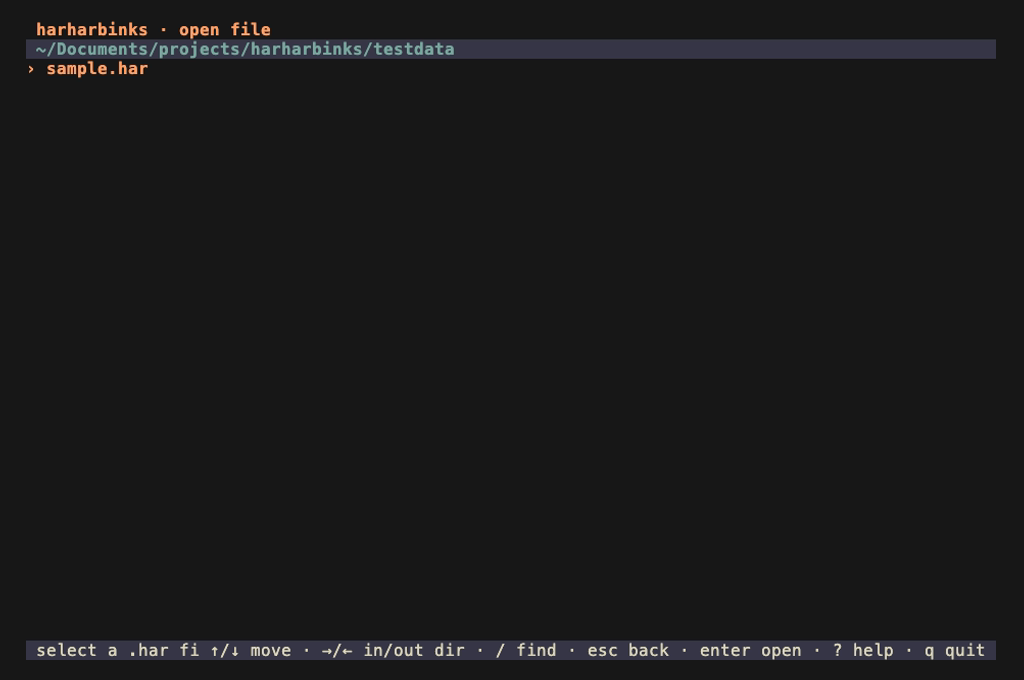
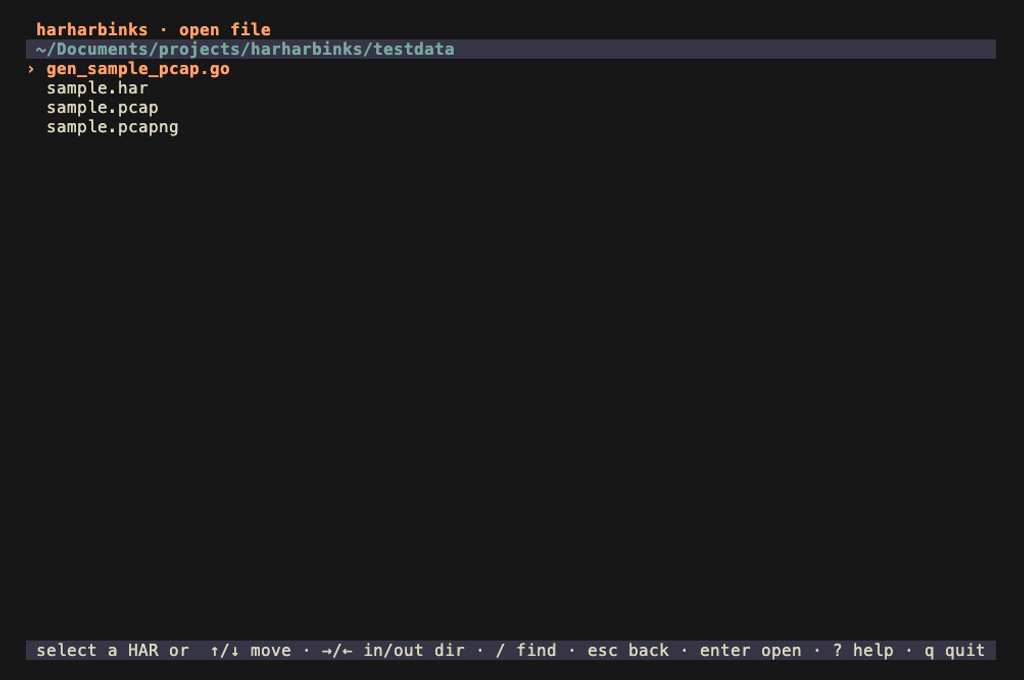
Document the PCAP viewer in the README and screenshots
The PCAP track (PP1-PP6) has shipped, so present harharbinks as the
offline HAR and PCAP inspector it now is, rather than a HAR-only viewer
with PCAP on the roadmap.

- README: reframe the intro and hero, split Features into HAR viewer,
  PCAP viewer, Shared, and Headless CLI groups, sync the usage block
with
  `hhb --help`, add HAR- and PCAP-specific controls tables and `hhb
pcap`
  examples, and drop the now-shipped PCAP item from the roadmap.
- Screenshots: split the gallery into HAR and PCAP viewer sections and
  add PCAP CLI stills. Rebuild the hero GIF as a two-act HAR-then-PCAP
  reel and regenerate the stills via `make screenshots`; the browser and
  help images are refreshed to match the current app.
- Fix the top-level usage text to read "pick a file", since the file
  browser now opens packet captures as well as HAR files.

Changed region(s): [[0.0312, 0.0926, 0.2188, 0.2162], [0.125, 0.9265, 0.1875, 0.9882]]

diff --git a/internal/cli/cli.go b/internal/cli/cli.go
@@ -91,7 +91,7 @@ func writeUsage(w io.Writer) {
 	fmt.Fprintf(w, `%s — an offline HAR & PCAP inspector
 
 Usage:
-  hhb                       Open the interactive file browser to pick a HAR file
+  hhb                       Open the interactive file browser to pick a file
   hhb [file]                Open a HAR or PCAP file in the interactive viewer
   hhb <command> [args]      Run a headless command
 

diff --git a/README.md b/README.md
@@ -4,21 +4,27 @@
 [![Go Reference](https://pkg.go.dev/badge/github.com/bapatchirag/harharbinks.svg)](https://pkg.go.dev/github.com/bapatchirag/harharbinks)
 [![License: MIT](https://img.shields.io/badge/License-MIT-yellow.svg)](LICENSE)
 
-**harharbinks** is an offline HAR (HTTP Archive) file viewer that runs entirely in
-your terminal. Open a `.har` capture and browse its requests and responses —
-headers, cookies, query strings, payloads, bodies, and a reconstructed raw view —
-without a browser, and with no network access by default.
+**harharbinks** is an offline HAR (HTTP Archive) and packet-capture viewer that
+runs entirely in your terminal. Open a `.har` to browse its requests and
+responses — headers, cookies, query strings, payloads, bodies, and a
+reconstructed raw view — or open a `.pcap`/`.pcapng` for Wireshark-style,
+packet-level inspection with a collapsible layer tree and a hex view. No browser,
+no libpcap, and no network access by default.
 
 <p align="center">
   <img src="docs/images/hero.gif" width="800"
-       alt="harharbinks feature tour: browsing a HAR capture's request list, inspecting a pretty-printed JSON response, filtering with a field:value query, the export menu, and switching color themes live">
+       alt="harharbinks feature tour: browsing a HAR capture's request list and a pretty-printed JSON response, filtering with a field:value query, then opening a packet capture to inspect a packet's layer tree and hex bytes, its conversations, and capture statistics">
 </p>
 
 <p align="center"><em><a href="docs/screenshots.md">More screenshots &rarr;</a></em></p>
 
 ## Features
 
-**Interactive TUI**
+harharbinks bundles two inspectors into one static binary — an HTTP-archive
+viewer and a packet-capture viewer — each with an interactive TUI and headless
+commands, and each fully offline.
+
+**HAR viewer**
 
 - **Request list** — a scrollable table of every entry (method, status, type,
   URL, size, time) with a live summary pane and status bar.
@@ -32,25 +38,49 @@ without a browser, and with no network access by default.
   URL).
 - **Follow session** — jump from any entry to every request/response that shares
   its connection (falling back to same host + time proximity).
-- **File browser** — pick a `.har` file from within the app, with in-directory
-  filtering.
 - **Export** — copy an entry's URL, copy it as a cURL command, or save its
   response body to disk.
+
+**PCAP viewer**
+
+- **Packet list** — a scrollable, Wireshark-style table of every frame (number,
+  time, source, destination, protocol, length, info), decoded purely in Go.
+- **Packet detail** — a collapsible layer tree (Ethernet, IPv4/IPv6, ARP, TCP,
+  UDP, ICMP, DNS, HTTP, TLS) paired with a hex/ASCII view; selecting a layer or
+  field highlights the exact bytes it spans.
+- **Conversations & statistics** — bidirectional 5-tuple flows with per-flow
+  packet, byte, and duration totals, plus a capture summary, protocol hierarchy,
+  and top talkers.
+- **Follow conversation** — scope the packet list to one conversation's frames,
+  the capture analogue of follow-session.
+- **Search, filter & sort** — free-text and `field:value` filters (`proto`,
+  `src`, `dst`, `port`, `info`) and sort presets (time, protocol, length, source,
+  destination).
+- **Reads `.pcap` and `.pcapng`** straight from disk — no libpcap and no live
+  capture.
+
+**Shared**
+
+- **File browser** — pick a `.har`, `.pcap`, or `.pcapng` from within the app,
+  with in-directory filtering; each file opens in the right viewer automatically.
 - **Themes** — switch among built-in palettes (Kanagawa, Gruvbox, Everforest,
   Zenburn) with a live preview; your choice is persisted between runs.
 
 **Headless CLI**
 
-- `hhb ls`, `hhb show`, and `hhb curl` for scripting and quick lookups, with
-  `--filter`, `--sort`, `--method`, `--status`, and `--json`. Reads from a file
-  argument or from stdin.
+- **HAR** — `hhb ls`, `hhb show`, and `hhb curl`, with `--filter`, `--sort`,
+  `--method`, `--status`, and `--json`.
+- **PCAP** — `hhb pcap ls`, `show`, `flows`, and `stats`, with `--proto`,
+  `--filter`, `--sort`, `--limit`, and `--json`.
+- Every command reads from a file argument or from stdin, for scripting and quick
+  lookups.
 
 **Offline & portable**
 
-- A single static binary (`CGO_ENABLED=0`), no browser, and no network access by
-  default. The only feature that can reach the network is an **opt-in** update
-  check (off unless you enable it); everything else — parsing, viewing, search,
-  and export — is fully offline. See [Updates](#updates).
+- A single static binary (`CGO_ENABLED=0`), no browser, no libpcap, and no
+  network access by default. The only feature that can reach the network is an
+  **opt-in** update check (off unless you enable it); everything else — parsing,
+  viewing, search, and export — is fully offline. See [Updates](#updates).
 
 ## Install
 
@@ -73,14 +103,22 @@ hhb --version
 ## Usage
 
 ```text
-hhb                       Open the interactive file browser to pick a HAR file
-hhb [file.har]            Open a HAR file in the interactive viewer
+hhb                       Open the interactive file browser to pick a file
+hhb [file]                Open a HAR or PCAP file in the interactive viewer
 hhb <command> [args]      Run a headless command
 
-Commands:
+HAR commands:
   ls     [file]           List HAR entries
   show   <index> [file]   Show details for a single entry
   curl   <index> [file]   Print an entry as a cURL command
+
+PCAP commands (run as `hhb pcap <command>`; see `hhb pcap` for flags):
+  ls     [file]           List packets in the capture
+  show   <index> [file]   Show one packet (layer stack + hex)
+  flows  [file]           List conversations (5-tuple flows)
+  stats  [file]           Summarize protocols and top talkers
+
+Other commands:
   update [--check]        Check for a newer release, and optionally install it
 
 Flags:
@@ -90,36 +128,52 @@ Flags:
 
 ### Interactive viewer
 
-Open a capture directly, or launch with no argument to pick one in the file
-browser:
+Open a file directly, or launch with no argument to pick one in the file browser.
+A `.har` opens in the HAR viewer and a `.pcap`/`.pcapng` in the PCAP viewer,
+detected by extension and, when needed, by content:
 
 ```sh
 hhb testdata/sample.har
+hhb testdata/sample.pcap
 hhb
 ```
 
-Controls:
+Both viewers share the same navigation, search, sort, and app-level keys:
 
 | Key | Action |
 |-----|--------|
 | `↑`/`↓` (`k`/`j`) | Move the selection |
-| `←`/`→` (`h`/`l`) | Switch detail tabs |
-| `ctrl+u`/`ctrl+d`, `g`/`G` | Page / jump within the detail pane |
-| `tab` / `shift+tab` | Move focus between the list and the detail pane |
-| `enter` | Follow the selected entry's session |
+| `ctrl+u`/`ctrl+d`, `g`/`G` | Page / jump |
 | `/` | Search / filter (`field:value` or free text) |
 | `s` / `S` | Cycle sort forward / reverse |
 | `o` | Open the file browser |
-| `e` | Export menu (copy URL, copy as cURL, save body) |
 | `c` | Settings |
 | `?` | Help |
 | `esc` | Back / clear the filter |
 | `q` / `ctrl+c` | Quit |
 
+In the **HAR viewer**:
+
+| Key | Action |
+|-----|--------|
+| `←`/`→` (`h`/`l`) | Switch detail tabs |
+| `tab` / `shift+tab` | Move focus between the list and the detail pane |
+| `enter` | Follow the selected entry's session |
+| `e` | Export menu (copy URL, copy as cURL, save body) |
+
+In the **PCAP viewer**:
+
+| Key | Action |
+|-----|--------|
+| `tab` / `shift+tab` | Cycle focus across the packet list, layer tree, and hex view |
+| `←`/`→` | Collapse / expand the focused layer in the tree |
+| `enter` | Follow the selected packet's conversation |
+| `e` | Views menu (conversations, statistics) |
+
 ### Headless commands
 
-Headless commands read the HAR from the `[file]` argument, or from stdin when it
-is omitted:
+Headless commands read from the `[file]` argument, or from stdin when it is
+omitted. The HAR commands work on `.har` files:
 
 ```sh
 hhb ls testdata/sample.har
@@ -128,6 +182,17 @@ hhb ls --filter api --status 2xx --json testdata/sample.har
 hhb show 3 testdata/sample.har
 hhb curl 3 testdata/sample.har
 cat capture.har | hhb ls
+```
+
+The `hhb pcap` commands work on `.pcap`/`.pcapng` captures:
+
+```sh
+hhb pcap ls testdata/sample.pcap
+hhb pcap ls --proto TLS --sort len:desc testdata/sample.pcap
+hhb pcap show 8 testdata/sample.pcap
+hhb pcap flows testdata/sample.pcap
+hhb pcap stats --json testdata/sample.pcap
+cat capture.pcap | hhb pcap ls
 ```
 
 ## Configuration
@@ -161,13 +226,9 @@ manager instead.
 
 ## Roadmap
 
-harharbinks ships as a HAR viewer today. Planned tracks build on the same offline,
-single-binary foundation:
+harharbinks ships as a HAR and PCAP inspector today. The next track builds on the
+same offline, single-binary foundation:
 
-- **PCAP viewer** — packet-level, Wireshark-style inspection
-  of `.pcap`/`.pcapng` captures: packet list, collapsible layer tree with a hex
-  view, conversations/flows, capture stats, and a reassembled follow-stream —
-  pure Go, no libpcap, no live capture.
 - **Passive security auditor** — an offline findings engine
   over HAR and PCAP with a triage TUI and a headless `hhb audit` command
   (text/json/sarif/md/html reports and a `--fail-on` CI gate).
@@ -197,8 +258,8 @@ Every widget — `Table[T]`, `List[T]`, `Viewport`, `Search`, `Menu`, `StatusBar
 domain-agnostic: it knows nothing about HAR, PCAP, or the application layer and
 communicates only through injected themes/keymaps and decoupled messages. A
 test-enforced guard keeps it that way — components never import `internal/har`,
-`internal/pcap`, or `internal/app` — so the same library backs the HAR viewer
-today and the planned PCAP and audit screens unchanged.
+`internal/pcap`, or `internal/app` — so the same library backs the HAR and PCAP
+viewers today and the planned audit screens unchanged.
 
 Every component is also demonstrated in isolation by the standalone gallery app:
 

diff --git a/docs/screenshots.md b/docs/screenshots.md
@@ -1,6 +1,6 @@
 # Screenshots
 
-## Interactive viewer
+## HAR viewer
 
 ### Request list & detail inspector
 
@@ -36,10 +36,11 @@ sequence reads as one story.
 
 ### File browser
 
-Pick a `.har` capture from within the app, with in-directory filtering — no need
-to pass a path on the command line.
+Pick a `.har`, `.pcap`, or `.pcapng` from within the app, with in-directory
+filtering — no need to pass a path on the command line. Only HAR and capture
+files are selectable, and each opens in the right viewer automatically.
 
-![The in-app file browser listing capture files in a directory](images/browser.png)
+![The in-app file browser listing a directory's files, with HAR and capture files selectable](images/browser.png)
 
 ### Export menu
 
@@ -60,6 +61,38 @@ a live preview; your choice is persisted between runs.
 Every screen documents its own key bindings in a help overlay, toggled with `?`.
 
 ![The help overlay listing the viewer's key bindings](images/help.png)
+
+## PCAP viewer
+
+### Packet list, layer tree & hex
+
+Open a `.pcap`/`.pcapng` and every frame is decoded into a Wireshark-style list
+on top, with a three-pane inspector below: a collapsible layer tree and a
+hex/ASCII view. Selecting a layer or field highlights the exact bytes it spans;
+`tab` cycles focus across the list, the tree, and the hex view.
+
+![The PCAP viewer: a packet list above a layer tree and hex view, with a selected layer's bytes highlighted](images/pcap-main.png)
+
+### Follow a conversation
+
+From any packet, press `enter` to scope the list to its conversation — every
+frame in that 5-tuple flow — the packet-capture analogue of follow-session.
+
+![The PCAP viewer scoped to one conversation's frames](images/pcap-follow.png)
+
+### Conversations (flows)
+
+The views menu (`e`) opens a table of bidirectional conversations, each with its
+packet, byte, and duration totals; `enter` follows one back into the packet list.
+
+![The conversations view: a table of bidirectional 5-tuple flows](images/pcap-flows.png)
+
+### Capture statistics
+
+The statistics view summarizes the capture: totals, a protocol hierarchy, and the
+top talkers by address.
+
+![The capture-statistics view: totals, protocol hierarchy, and top talkers](images/pcap-stats.png)
 
 ## Headless CLI
 
@@ -89,3 +122,35 @@ hhb curl 2 testdata/sample.har
 ```
 
 ![Output of hhb curl: an entry rendered as a runnable curl command](images/cli-curl.png)
+
+### `hhb pcap ls` — list packets
+
+```sh
+hhb pcap ls testdata/sample.pcap
+```
+
+![Output of hhb pcap ls: a Wireshark-style table of the capture's packets](images/cli-pcap-ls.png)
+
+### `hhb pcap show` — inspect one packet
+
+```sh
+hhb pcap show 8 testdata/sample.pcap
+```
+
+![Output of hhb pcap show: one packet's layer stack and hex/ASCII dump](images/cli-pcap-show.png)
+
+### `hhb pcap flows` — list conversations
+
+```sh
+hhb pcap flows testdata/sample.pcap
+```
+
+![Output of hhb pcap flows: a table of bidirectional conversations](images/cli-pcap-flows.png)
+
+### `hhb pcap stats` — summarize the capture
+
+```sh
+hhb pcap stats testdata/sample.pcap
+```
+
+![Output of hhb pcap stats: capture totals, protocol hierarchy, and top talkers](images/cli-pcap-stats.png)